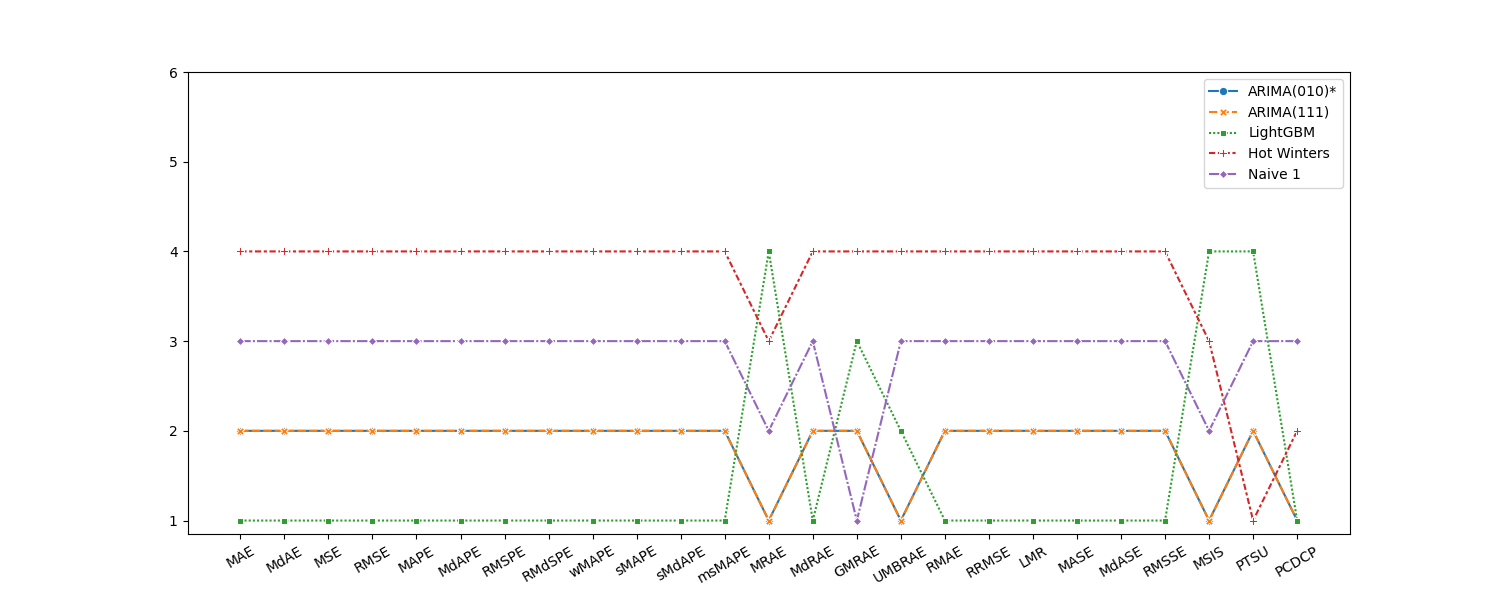
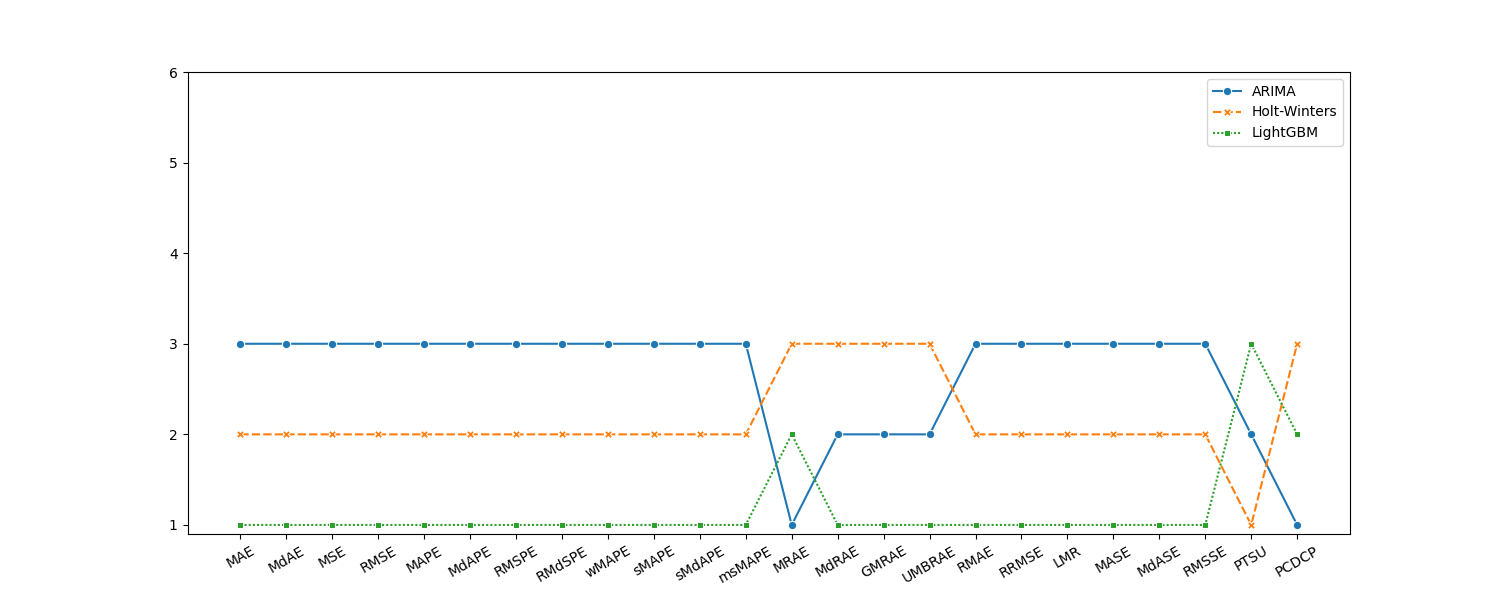
On branch multi-series Your branch is up to date with 'origin/multi-series'.
Changes to be committed:
	new file:   experiments/exp3_ranking/multi_run.py
	new file:   experiments/exp_data/mean_price.csv
	new file:   experiments/exp_data/mean_sales.csv
	new file:   experiments/exp_data/mean_stock.csv
	modified:   experiments/overview/multi_pred_quality.py
	modified:   experiments_plots/model_ranking/mcda_price.png
	modified:   experiments_plots/model_ranking/mcda_sales.png
	new file:   experiments_plots/model_ranking/mcda_stock.png
	modified:   experiments_plots/model_ranking/price.png
	modified:   experiments_plots/model_ranking/sales.png
	new file:   experiments_plots/model_ranking/stock.png

Changed region(s): [[0.1533, 0.45, 0.8893, 0.96], [0.7973, 0.12, 0.8893, 0.3]]

diff --git a/experiments/exp3_ranking/multi_run.py b/experiments/exp3_ranking/multi_run.py
@@ -1,0 +1,113 @@
+#!/usr/bin/env python3
+import numpy as np
+import pandas as pd
+import sys
+sys.path.append("../..")
+import utils.accuracy as accu
+from pymcdm.methods import PROMETHEE_II
+import plotting
+
+df_acc_price = pd.read_csv('../exp_data/mean_price.csv', index_col=['Unnamed: 0'])
+df_acc_sales = pd.read_csv('../exp_data/mean_sales.csv', index_col=['Unnamed: 0'])
+df_acc_stock = pd.read_csv('../exp_data/mean_stock.csv', index_col=['Unnamed: 0'])
+
+# Sorting using single metric
+def single_criterion_ranking(df: pd.DataFrame):
+    df_asc = df.drop(columns=["PTSU", "PCDCP"]).rank(method='dense')
+    df_desc = df[["PTSU", "PCDCP"]].rank(ascending=False, method='dense')
+    sig_rank = pd.concat([df_asc, df_desc], axis=1).transpose()
+    return sig_rank
+
+sig_rank_price = single_criterion_ranking(df_acc_price)
+save_path = '../../experiments_plots/model_ranking/price.png'
+plotting.line_plotting(save_path, sig_rank_price)
+
+sig_rank_sales = single_criterion_ranking(df_acc_sales)
+save_path = '../../experiments_plots/model_ranking/sales.png'
+plotting.line_plotting(save_path, sig_rank_sales)
+
+sig_rank_stock = single_criterion_ranking(df_acc_stock)
+save_path = '../../experiments_plots/model_ranking/stock.png'
+plotting.line_plotting(save_path, sig_rank_stock)
+
+# Sorting using mcda method
+# The preference function see:
+#   Xu B, Ouenniche J. Performance evaluation of competing forecasting models: A multidimensional framework based on MCDA[J]. 
+#   Expert Systems with Applications, 2012, 39(9): 8312-8324.
+body = PROMETHEE_II('vshape')
+weights = [0.5, 0.3, 0.2]
+types = np.array([-1, -1, 1])
+
+#   Compute thresholds in preference functions 
+def threshold(df:pd.DataFrame, criterion:str, coef):
+    return coef*(df[criterion].max()- df[criterion].min())
+
+# The coefficients of thresholds see also:
+#   Xu B, Ouenniche J. Performance evaluation of competing forecasting models: A multidimensional framework based on MCDA[J]. 
+#   Expert Systems with Applications, 2012, 39(9): 8312-8324.
+q2_price = threshold(df_acc_price, 'PCDCP', 0.01)
+q3_price = threshold(df_acc_price, 'PTSU', 0.2)
+p2_price = threshold(df_acc_price, 'PCDCP', 0.05)
+p3_price = threshold(df_acc_price, 'PTSU', 0.33)
+
+q2_sales = threshold(df_acc_sales, 'PCDCP', 0.01)
+q3_sales = threshold(df_acc_sales, 'PTSU', 0.2)
+p2_sales = threshold(df_acc_sales, 'PCDCP', 0.05)
+p3_sales = threshold(df_acc_sales, 'PTSU', 0.33)
+
+q2_stock = threshold(df_acc_stock, 'PCDCP', 0.01)
+q3_stock = threshold(df_acc_stock, 'PTSU', 0.2)
+p2_stock = threshold(df_acc_stock, 'PCDCP', 0.05)
+p3_stock = threshold(df_acc_stock, 'PTSU', 0.33)
+
+mcda_rank_price = pd.DataFrame()
+mcda_rank_sales = pd.DataFrame()
+mcda_rank_stock = pd.DataFrame()
+
+import utils.df_labels as labels
+metrics = labels.get_metrics()
+for goodness_of_fit in metrics[0:-2]:
+    criteria = [goodness_of_fit, 'PCDCP', 'PTSU']
+    matrix_price = df_acc_price[criteria].values
+    matrix_sales = df_acc_sales[criteria].values
+    matrix_stock = df_acc_stock[criteria].values
+  
+    q1_price = threshold(df_acc_price, goodness_of_fit, 0.01)
+    q_price = np.array([q1_price, q2_price, q3_price])
+    p1_price = threshold(df_acc_price, goodness_of_fit, 0.05)
+    p_price = np.array([p1_price, p2_price, p3_price])
+
+    q1_sales = threshold(df_acc_sales, goodness_of_fit, 0.01)
+    q_sales = np.array([q1_sales, q2_sales, q3_sales])
+    p1_sales = threshold(df_acc_sales, goodness_of_fit, 0.05)
+    p_sales = np.array([p1_sales, p2_sales, p3_sales])
+  
+    q1_stock = threshold(df_acc_stock, goodness_of_fit, 0.01)
+    q_stock = np.array([q1_stock, q2_stock, q3_stock])
+    p1_stock = threshold(df_acc_stock, goodness_of_fit, 0.05)
+    p_stock = np.array([p1_stock, p2_stock, p3_stock])
+
+    col_price = body(matrix_price, weights, types, p=p_price, q=q_price)
+    col_sales = body(matrix_sales, weights, types, p=p_sales, q=q_sales)
+    col_stock = body(matrix_stock, weights, types, p=p_stock, q=q_stock)
+    col_name = ','.join(criteria)
+    mcda_rank_price[col_name] = col_price
+    mcda_rank_sales[col_name] = col_sales
+    mcda_rank_stock[col_name] = col_stock
+
+mcda_rank_price.index = df_acc_price.index
+mcda_rank_sales.index = df_acc_sales.index
+mcda_rank_stock.index = df_acc_stock.index
+
+mcda_rank_price = mcda_rank_price.rank(ascending=False, method='dense').transpose()
+mcda_rank_sales = mcda_rank_sales.rank(ascending=False, method='dense').transpose()
+mcda_rank_stock = mcda_rank_stock.rank(ascending=False, method='dense').transpose()
+
+save_path = '../../experiments_plots/model_ranking/mcda_price.png'
+plotting.line_plotting(save_path, mcda_rank_price, fontsize=6.5)
+
+save_path = '../../experiments_plots/model_ranking/mcda_sales.png'
+plotting.line_plotting(save_path, mcda_rank_sales, fontsize=6.5)
+
+save_path = '../../experiments_plots/model_ranking/mcda_stock.png'
+plotting.line_plotting(save_path, mcda_rank_stock, fontsize=6.5)

diff --git a/experiments/overview/multi_pred_quality.py b/experiments/overview/multi_pred_quality.py
@@ -101,3 +101,8 @@ mean_acc_stock.to_latex('../exp_data/mean_stock.tex', column_format=col_format, 
 # var_acc_price.to_latex('../exp_data/var_price.tex', column_format=col_format, index=True, float_format="{:0.3e}".format)
 # var_acc_sales.to_latex('../exp_data/var_sales.tex', column_format=col_format, index=True, float_format="{:0.3e}".format)
 # var_acc_stock.to_latex('../exp_data/var_stock.tex', column_format=col_format, index=True, float_format="{:0.3e}".format)
+
+# save to csv
+mean_acc_price.to_csv('../exp_data/mean_price.csv')
+mean_acc_sales.to_csv('../exp_data/mean_sales.csv')
+mean_acc_stock.to_csv('../exp_data/mean_stock.csv')
